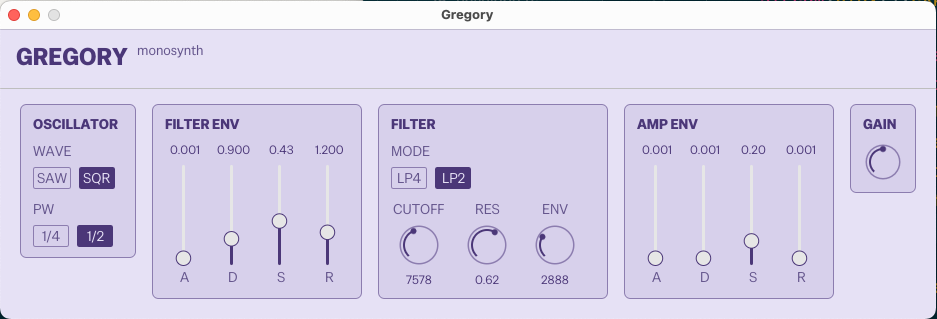
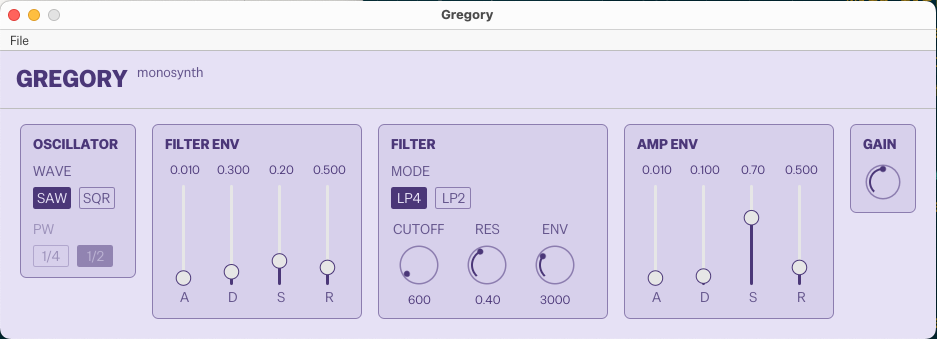
feat: UI for patches save/load

diff --git a/src/ui.rs b/src/ui.rs
@@ -1,6 +1,8 @@
 use std::sync::atomic::{AtomicBool, Ordering};
 use std::sync::{Arc, Mutex};
 
+use crate::patch_manager;
+
 use egui::{
     Align, CentralPanel, Color32, CornerRadius, FontFamily, FontId, Frame, Layout, RichText,
     Slider, Stroke, Ui, Vec2, Widget, style::HandleShape,
@@ -22,6 +24,7 @@ pub struct GregoryApp {
     /// Local copy we mutate in the UI, it's written back to the mutex on change.
     local: Patch,
     running: Arc<AtomicBool>,
+    current_patch_name: Option<String>,
 }
 
 impl GregoryApp {
@@ -37,6 +40,7 @@ impl GregoryApp {
             patch,
             local,
             running,
+            current_patch_name: None,
         }
     }
 }
@@ -56,6 +60,70 @@ impl eframe::App for GregoryApp {
         }
 
         let before = self.local.clone();
+
+        let mut load_clicked = false;
+        let mut save_clicked = false;
+        let mut new_clicked = false;
+
+        let new_shortcut = egui::KeyboardShortcut::new(egui::Modifiers::COMMAND, egui::Key::N);
+        let open_shortcut = egui::KeyboardShortcut::new(egui::Modifiers::COMMAND, egui::Key::O);
+        let save_shortcut = egui::KeyboardShortcut::new(egui::Modifiers::COMMAND, egui::Key::S);
+
+        if ctx.input_mut(|i| i.consume_shortcut(&new_shortcut)) {
+            new_clicked = true;
+        }
+        if ctx.input_mut(|i| i.consume_shortcut(&open_shortcut)) {
+            load_clicked = true;
+        }
+        if ctx.input_mut(|i| i.consume_shortcut(&save_shortcut)) {
+            save_clicked = true;
+        }
+
+        egui::TopBottomPanel::top("menu_bar").show(ctx, |ui| {
+            egui::MenuBar::new().ui(ui, |ui| {
+                ui.menu_button("File", |ui| {
+                    if ui
+                        .add(
+                            egui::Button::new("New")
+                                .shortcut_text(ctx.format_shortcut(&new_shortcut)),
+                        )
+                        .clicked()
+                    {
+                        new_clicked = true;
+                        ui.close();
+                    }
+
+                    if ui
+                        .add(
+                            egui::Button::new("Open...")
+                                .shortcut_text(ctx.format_shortcut(&open_shortcut)),
+                        )
+                        .clicked()
+                    {
+                        load_clicked = true;
+                        ui.close();
+                    }
+
+                    if ui
+                        .add(
+                            egui::Button::new("Save...")
+                                .shortcut_text(ctx.format_shortcut(&save_shortcut)),
+                        )
+                        .clicked()
+                    {
+                        save_clicked = true;
+                        ui.close();
+                    }
+
+                    ui.separator();
+
+                    if ui.button("Quit").clicked() {
+                        self.running.store(false, Ordering::SeqCst);
+                        ui.close();
+                    }
+                });
+            });
+        });
 
         CentralPanel::default()
             .frame(Frame::new().fill(BG))
@@ -81,7 +149,7 @@ impl eframe::App for GregoryApp {
                     );
                 });
 
-                ui.add_space(10.0);
+                ui.add_space(8.0);
                 ui.separator();
                 ui.add_space(10.0);
 
@@ -105,6 +173,48 @@ impl eframe::App for GregoryApp {
                     });
                 });
             });
+
+        // Act on menu actions after all UI is drawn.
+        if new_clicked {
+            self.local = Patch::default();
+            self.current_patch_name = None;
+        }
+
+        if load_clicked
+            && let Some(path) = rfd::FileDialog::new()
+                .set_title("Load Patch")
+                .add_filter("TOML", &["toml"])
+                .set_directory(patch_manager::patches_dir())
+                .pick_file()
+            && let Ok(p) = patch_manager::load_patch_from_path(&path)
+        {
+            self.local = p;
+            self.current_patch_name = path
+                .file_stem()
+                .and_then(|s| s.to_str())
+                .map(|s| s.to_owned());
+        }
+
+        if save_clicked
+            && let Some(path) = rfd::FileDialog::new()
+                .set_title("Save Patch")
+                .add_filter("TOML", &["toml"])
+                .set_directory(patch_manager::patches_dir())
+                .set_file_name(match &self.current_patch_name {
+                    Some(n) => format!("{}.toml", n),
+                    None => "new patch.toml".to_owned(),
+                })
+                .save_file()
+        {
+            if let Err(e) = patch_manager::save_patch_to_path(&self.local, &path) {
+                eprintln!("Failed to save patch: {e}");
+            } else {
+                self.current_patch_name = path
+                    .file_stem()
+                    .and_then(|s| s.to_str())
+                    .map(|s| s.to_owned());
+            }
+        }
 
         // Write back only if something changed.
         if patch_changed(&before, &self.local)

diff --git a/src/patch_manager.rs b/src/patch_manager.rs
@@ -14,9 +14,14 @@ pub fn patches_dir() -> PathBuf {
 
 pub fn save_patch(patch: &Patch, name: &str) -> Result<PathBuf, PatchError> {
     let path = patches_dir().join(format!("{}.toml", sanitize(name)));
-    let toml = toml::to_string_pretty(patch).map_err(|e| PatchError::Serialize(e.to_string()))?;
-    fs::write(&path, toml).map_err(|e| PatchError::Io(e.to_string()))?;
+    save_patch_to_path(patch, &path)?;
     Ok(path)
+}
+
+pub fn save_patch_to_path(patch: &Patch, path: &Path) -> Result<(), PatchError> {
+    let toml = toml::to_string_pretty(patch).map_err(|e| PatchError::Serialize(e.to_string()))?;
+    fs::write(path, toml).map_err(|e| PatchError::Io(e.to_string()))?;
+    Ok(())
 }
 
 pub fn load_patch(name: &str) -> Result<Patch, PatchError> {
@@ -27,26 +32,6 @@ pub fn load_patch(name: &str) -> Result<Patch, PatchError> {
 pub fn load_patch_from_path(path: &Path) -> Result<Patch, PatchError> {
     let toml = fs::read_to_string(path).map_err(|e| PatchError::Io(e.to_string()))?;
     toml::from_str(&toml).map_err(|e| PatchError::Deserialize(e.to_string()))
-}
-
-pub fn list_patches() -> Vec<String> {
-    let dir = patches_dir();
-    let Ok(entries) = fs::read_dir(&dir) else {
-        return vec![];
-    };
-    let mut names: Vec<String> = entries
-        .filter_map(|e| e.ok())
-        .filter_map(|e| {
-            let path = e.path();
-            if path.extension()?.to_str()? == "toml" {
-                Some(path.file_stem()?.to_str()?.to_owned())
-            } else {
-                None
-            }
-        })
-        .collect();
-    names.sort();
-    names
 }
 
 pub fn delete_patch(name: &str) -> Result<(), PatchError> {
@@ -116,16 +101,6 @@ mod tests {
         let loaded = load_patch(name).expect("Failed to load patch");
         assert_eq!(patch, loaded);
         delete_patch(name).expect("Failed to delete test patch");
-    }
-
-    #[test]
-    fn test_list_patches_includes_saved() {
-        let patch = Patch::default();
-        let name = "test_patch_list";
-        save_patch(&patch, name).expect("Failed to save");
-        let names = list_patches();
-        assert!(names.contains(&name.to_owned()));
-        delete_patch(name).expect("Failed to delete");
     }
 
     #[test]

diff --git a/src/bin/gregory.rs b/src/bin/gregory.rs
@@ -120,7 +120,7 @@ fn main() {
     let options = eframe::NativeOptions {
         viewport: egui::ViewportBuilder::default()
             .with_title("Gregory")
-            .with_inner_size([936.0, 290.0])
+            .with_inner_size([936.0, 310.0])
             .with_resizable(false),
         ..Default::default()
     };

diff --git a/README.md b/README.md
@@ -2,6 +2,8 @@
 
 Monophonic software synthesizer
 
+![Gregory UI](ui.png)
+
 ## Summary
 
 Gregory is a one-oscillator subtractive monosynth written in Rust. It has a
@@ -11,8 +13,6 @@ accepts input from any connected MIDI keyboard and runs on macOS, Linux and
 Windows via native audio APIs.
 
 ## Usage
-
-![Gregory UI](ui.png)
 
 Run in terminal:
 
@@ -27,7 +27,9 @@ MIDI input: KeyStep Pro
 MIDI connected
 ```
 
-Then tweak the knobs and faders.
+Then tweak the knobs and faders. Save patch with Cmd+S and load with Cmd+O.
+New patch on Cmd+N. By default patches saved in `~/.config/gregory/patches`
+as TOML files.
 
 ## Installation
 
